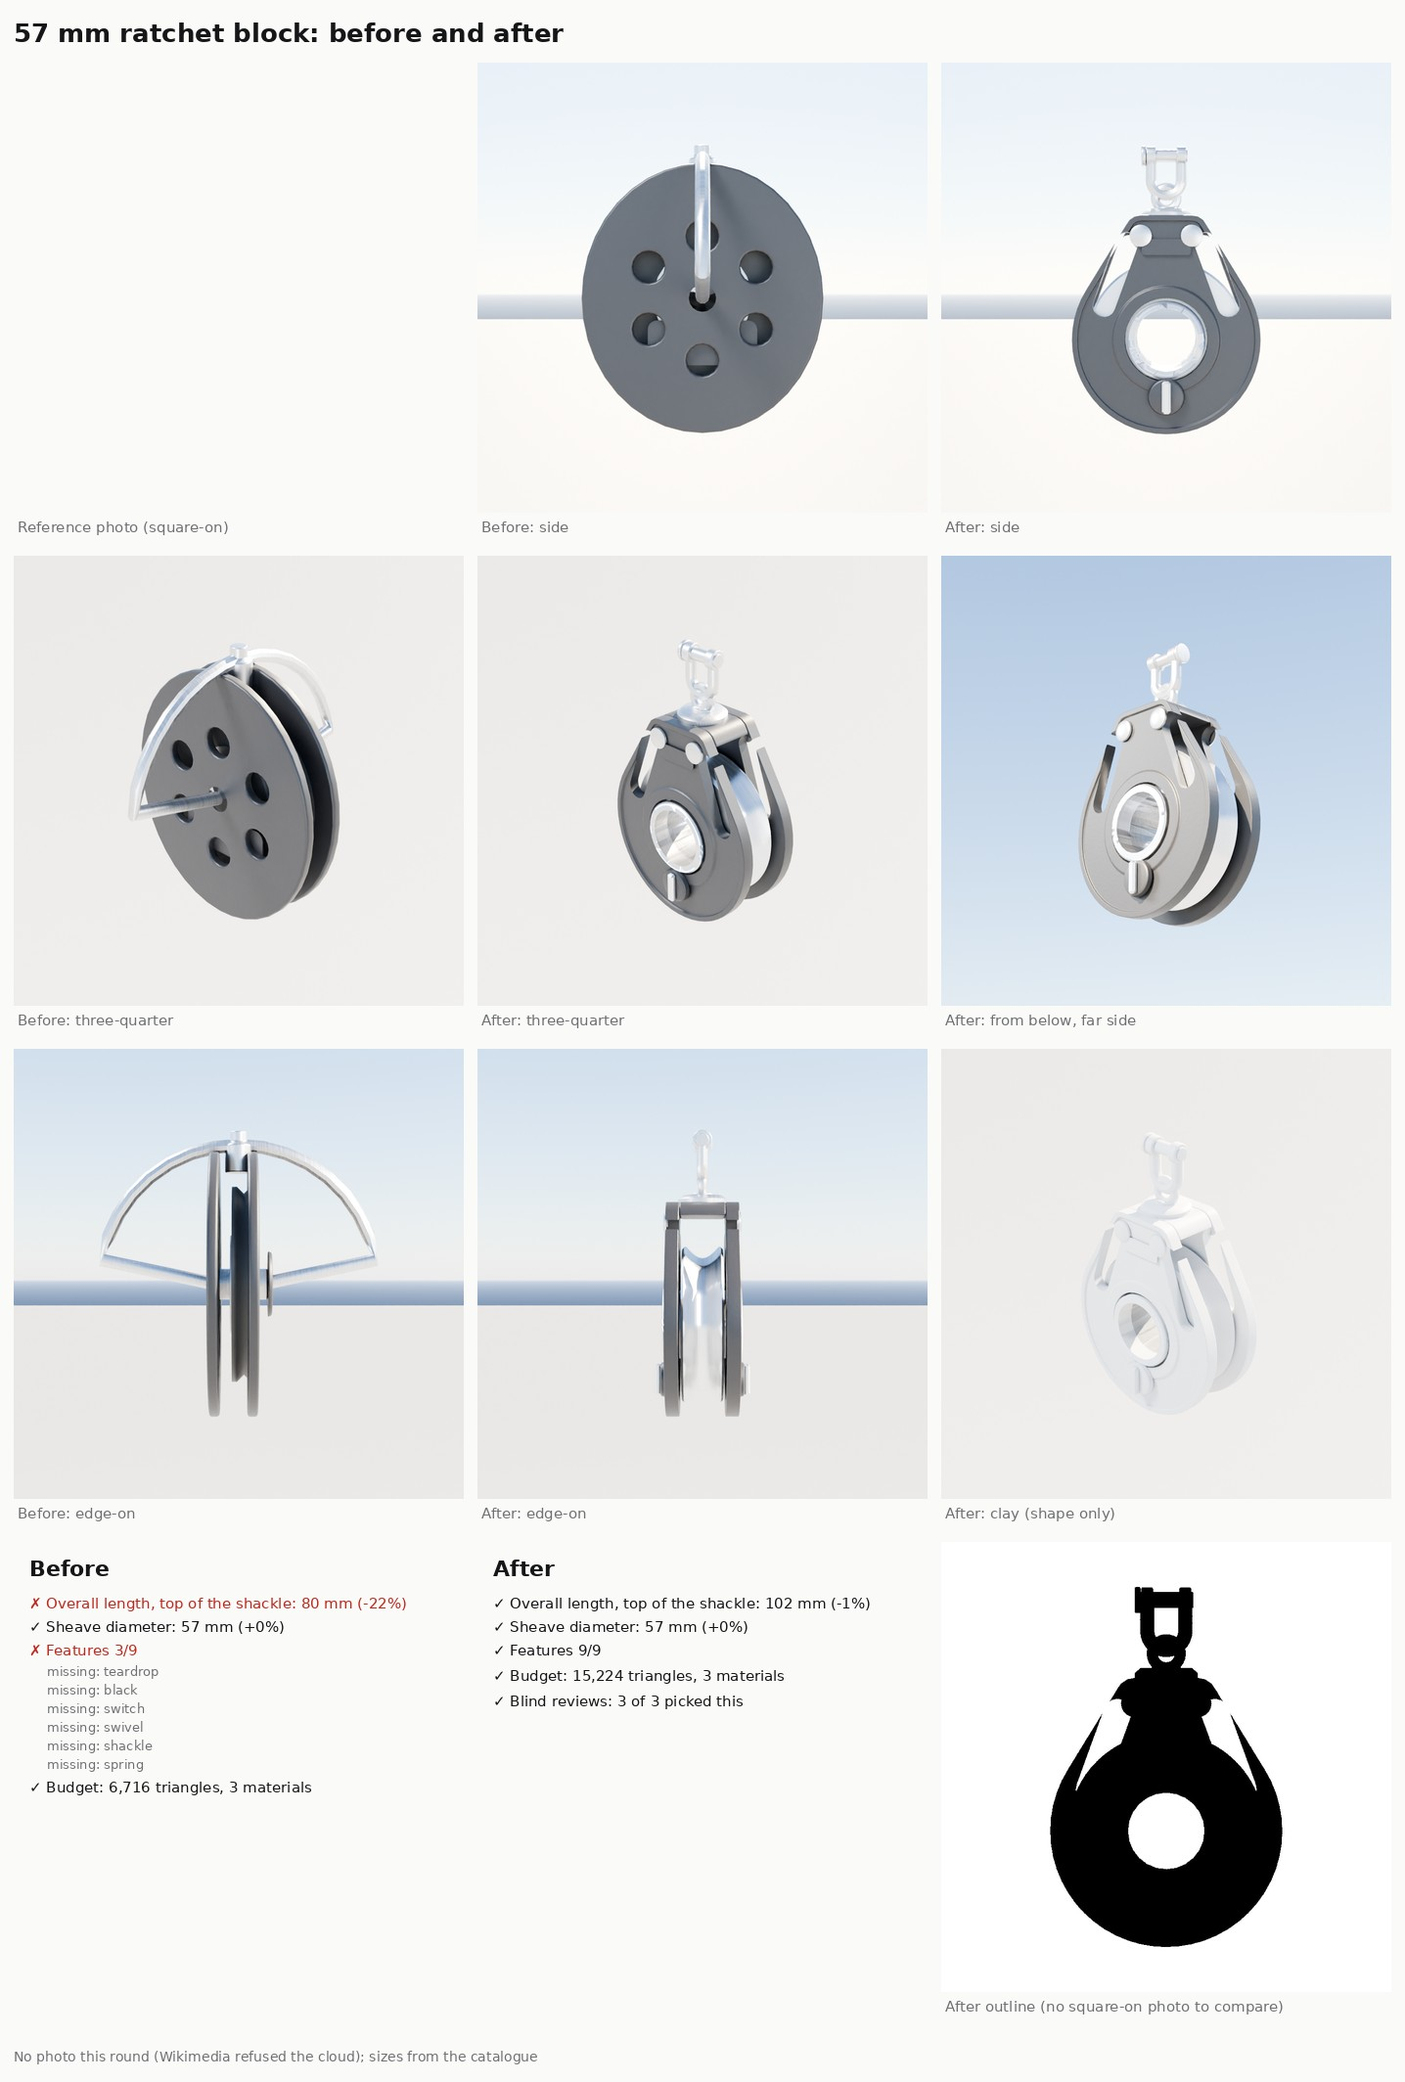
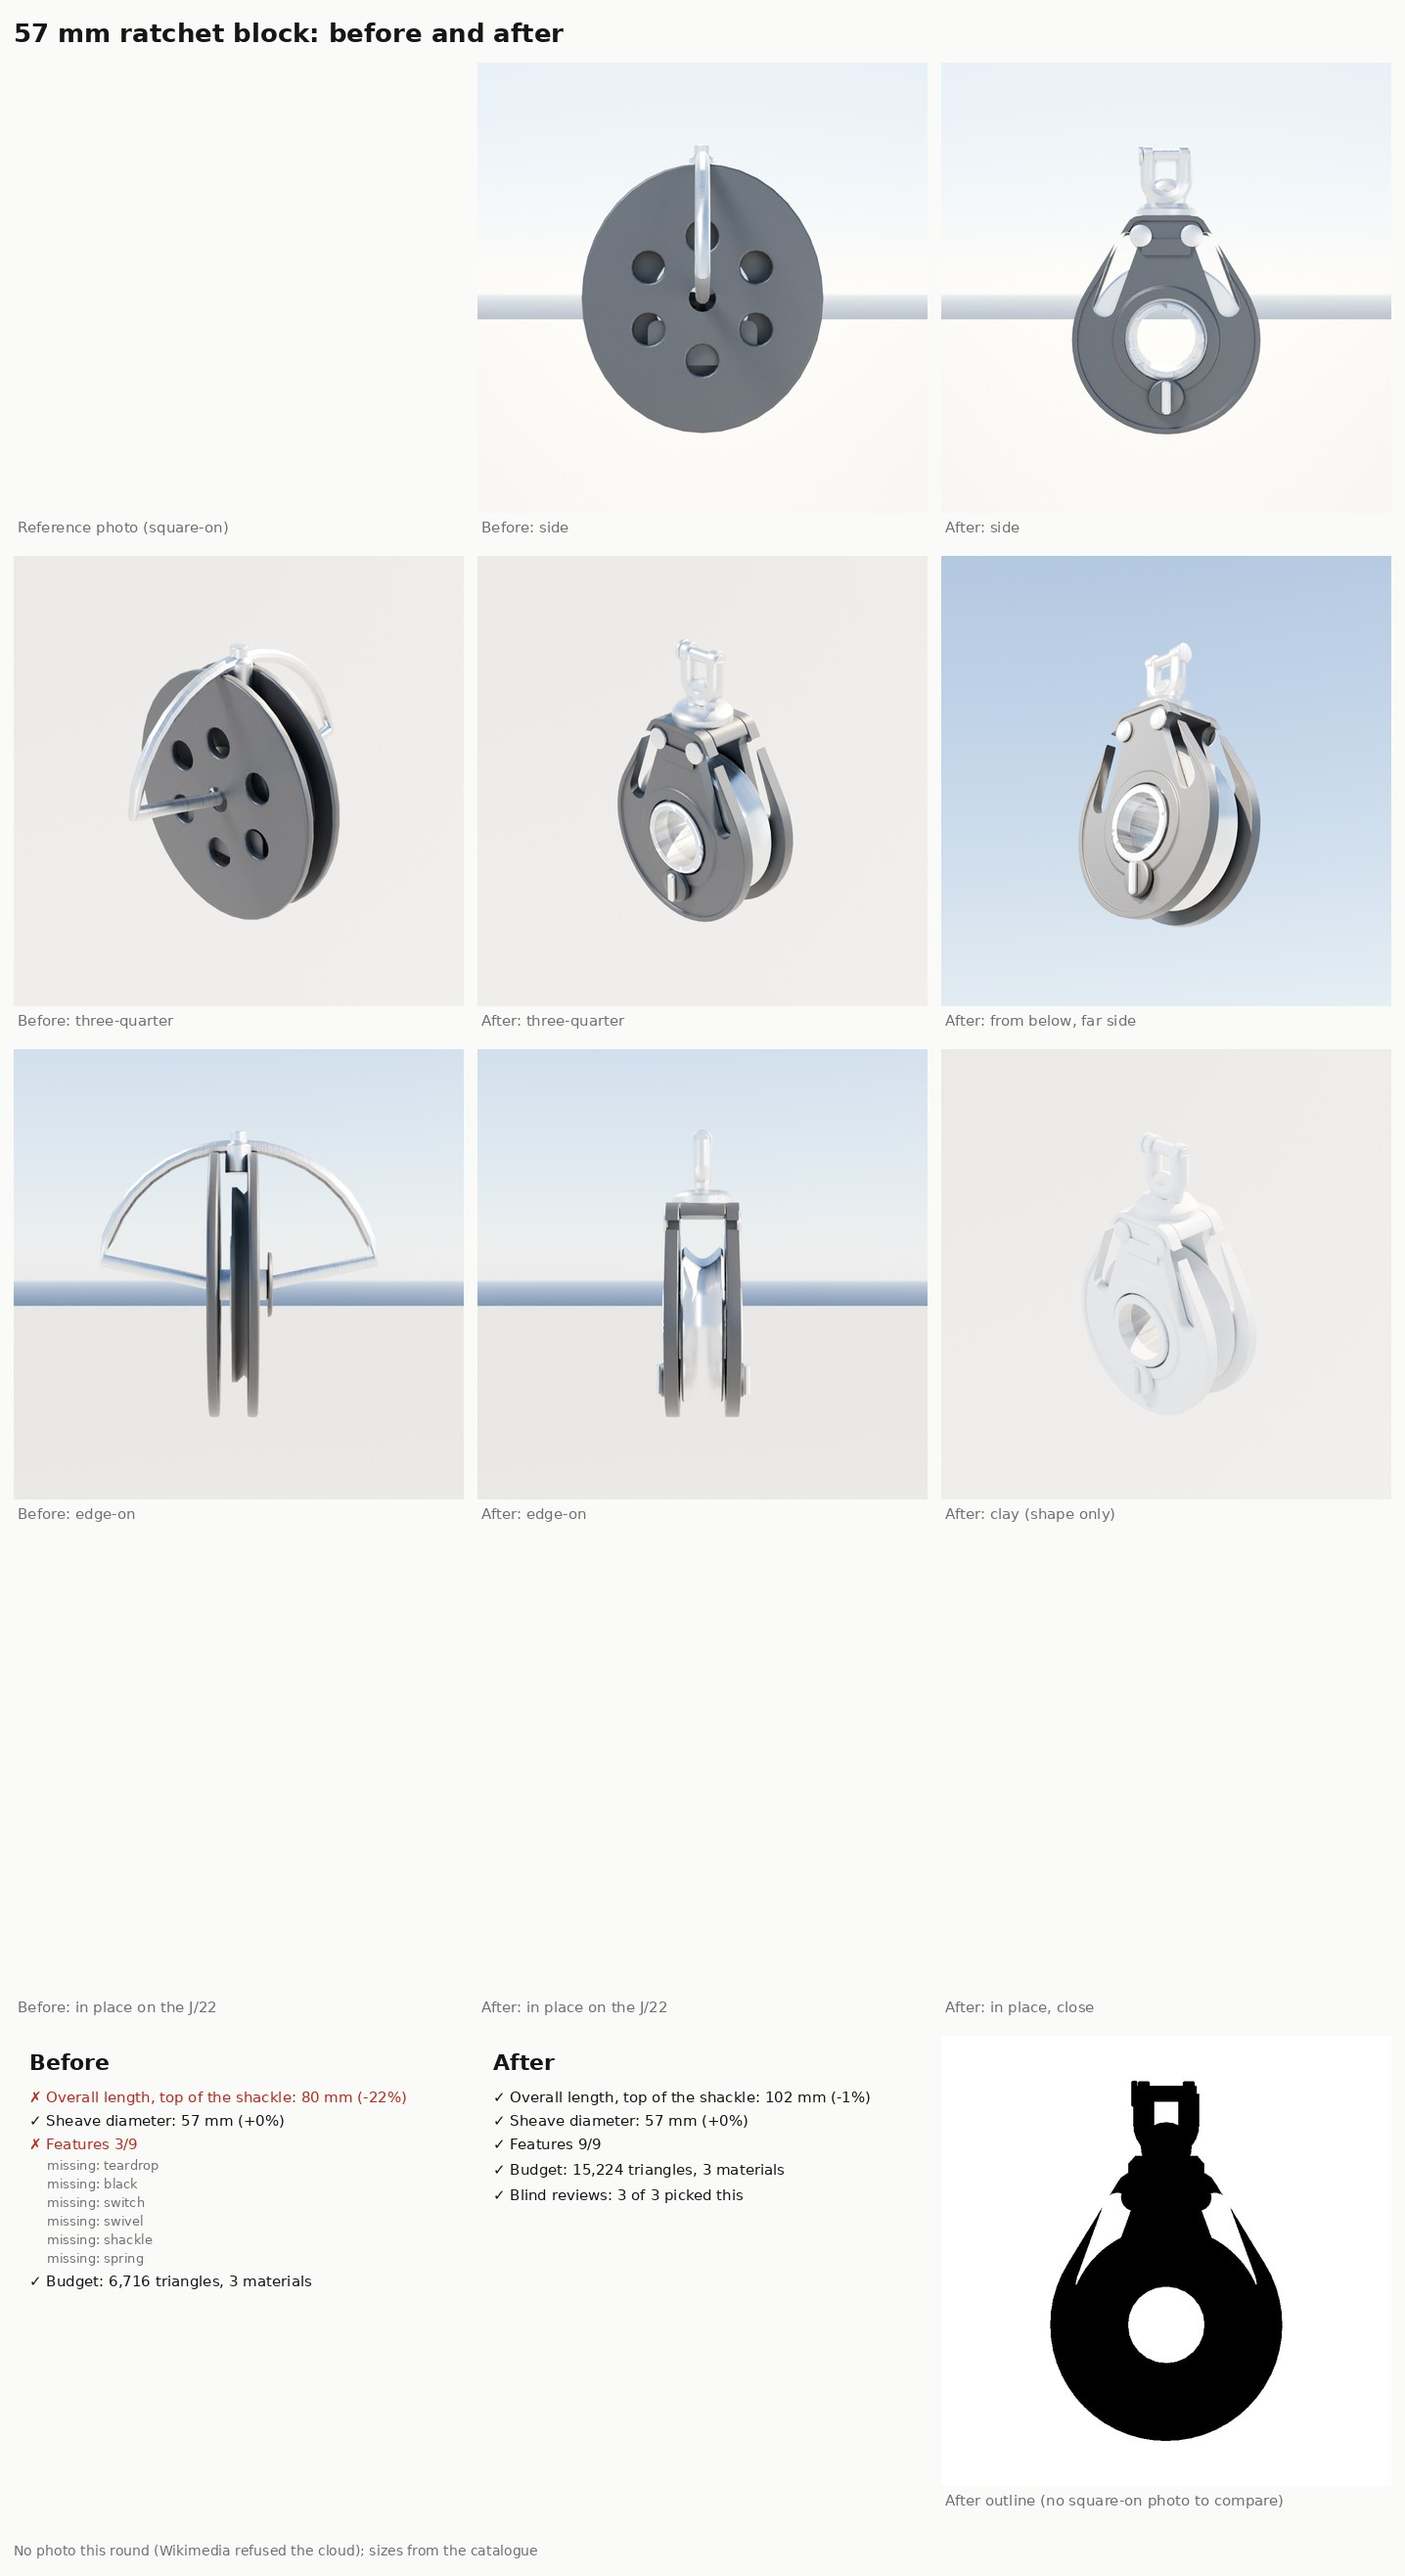
Ratchet57: thicker swivel neck (post, eye, collar, shackle bow)
Bean's review: the connection between the block's head and the shackle read thin
in profile. _mb_swivel_shackle takes neck (default 1, other blocks unchanged);
Ratchet57 uses 1.6.

Claude-Session: https://claude.ai/code/session_01Aobnj7CoA4LFkXbTX4RsnG

diff --git a/Tools/boatkit/bk_parts.py b/Tools/boatkit/bk_parts.py
@@ -472,19 +472,21 @@ def _mb_hub(sfx, rb, yi, yo, rsi, cz, k, steel):
     return out
 
 
-def _mb_swivel_shackle(zh, rb, k, steel):
-    """Swivel collar on the head at zh, post, eye (hole along Y) and a D-shackle with its pin along X at the origin."""
+def _mb_swivel_shackle(zh, rb, k, steel, neck=1.0):
+    """Swivel collar on the head at zh, post, eye (hole along Y) and a D-shackle with its pin along X at the origin.
+    `neck` thickens the post, the eye's wire and the collar (Ratchet57: Bean, Nov 9 2026, the neck read thin edge-on)."""
     objs = []
-    collar = G.lathe("collar", [(0, -0.0006 * k), (rb * 0.27, -0.0006 * k), (rb * 0.27, 0.0012 * k), (rb * 0.22, 0.0024 * k), (0, 0.0024 * k)], steel, 28)
+    cr = rb * 0.27 * (1 + (neck - 1) * 0.35)
+    collar = G.lathe("collar", [(0, -0.0006 * k), (cr, -0.0006 * k), (cr, 0.0012 * k * neck), (cr * 0.82, 0.0024 * k * neck), (0, 0.0024 * k * neck)], steel, 28)
     collar.location = (0, 0, zh)
     G.bake_xform(collar)
     objs.append(G.finish(collar, 0, sharp=50))
-    ez, er, emin = -0.013 * k, 0.0034 * k, 0.0014 * k
-    post = G.cyl("post", (0, 0, zh), (0, 0, ez - er + 0.0006 * k), 0.0040 * k, steel, 24, r1=0.0034 * k)
+    ez, er, emin = -0.013 * k, 0.0034 * k * (1 + (neck - 1) * 0.3), 0.0014 * k * neck
+    post = G.cyl("post", (0, 0, zh), (0, 0, ez - er + 0.0006 * k), 0.0040 * k * neck, steel, 24, r1=0.0034 * k * neck)
     objs.append(G.finish(post, 0.0003 * k))
     eye = G.tube("eye", G.arc_pts((0, 0, ez), er, 0, G.TAU, 24, "xz")[:-1], emin, steel, 10, closed=True)
     objs.append(G.finish(eye))
-    w, wr = 0.0046 * k, 0.0018 * k
+    w, wr = 0.0046 * k * (1 + (neck - 1) * 0.3), 0.0018 * k * (1 + (neck - 1) * 0.8)
     bow = G.tube("bow", [(-w, 0, 0), (-w, 0, -0.0075 * k)] + G.arc_pts((0, 0, -0.0075 * k), w, math.pi, G.TAU, 14, "xz")[1:-1] + [(w, 0, -0.0075 * k), (w, 0, 0)], wr, steel, 10)
     objs.append(G.finish(bow))
     for sx in (-1, 1):
@@ -515,7 +517,7 @@ def _mb_ratchet_sheave(name, R, ts, rsi, cz, k, mat, facets=12, segs=96):
 
 
 def _modern_block_parts(name, sheave_d, becket=False, plate=None, overall=None, head=1.66, hk=None, ratchet=False,
-                        holes=True):
+                        holes=True, neck=1.0):
     """Part detail loop round 1 (docs/part-detail-loop): a modern moulded-cheek swivel block, measured against a 40 mm
     catalogue block (86 mm from the shackle pin to the foot, 4 mm pin, 10 mm line) and reference photos.
 
@@ -613,7 +615,7 @@ def _modern_block_parts(name, sheave_d, becket=False, plate=None, overall=None, 
     # boss read as a hardware-store pulley)
     objs += _mb_hub("", rb, yi, yo, rsi, cz, k, steel)
     # swivel: collar on the head, post, eye (hole along Y); D-shackle: pin along X at the origin, bow through the eye
-    objs += _mb_swivel_shackle(zh, rb, hk, steel)
+    objs += _mb_swivel_shackle(zh, rb, hk, steel, neck)
     if becket:
         bz = cz - rb - 0.0022 * k
         bk = G.tube("becket", [(-0.0050 * k, 0, cz - R * 0.6)] + G.arc_pts((0, 0, bz), 0.0050 * k, math.pi, G.TAU, 14, "xz")[1:-1] + [(0.0050 * k, 0, cz - R * 0.6)],
@@ -885,7 +887,7 @@ def ratchet57(standup=False):
     """Sunfish deck gear (Nov 2026, docs/part-detail-loop/sunfish.md): the moulded-cheek swivel block at the catalogue's
     57 mm ratchet size (103 mm overall, 10 mm line), a faceted ratchet sheave, an on/off switch on each cheek and a 6 mm
     swivel shackle. `standup`: a stand-up spring round the shackle and swivel, so the block stands on its deck eye."""
-    objs, socks = _modern_block_parts("Ratchet57", 0.057, plate="Plate57", overall=0.103, head=1.32, hk=1.2, ratchet=True, holes=False)
+    objs, socks = _modern_block_parts("Ratchet57", 0.057, plate="Plate57", overall=0.103, head=1.32, hk=1.2, ratchet=True, holes=False, neck=1.6)
     if standup:
         zh = socks[1][1][2] + 0.0336 * 1.32          # the head's top (Axle + H)
         n, r, z0 = 9, 0.0095, -0.0015

diff --git a/docs/part-detail-loop/sunfish.md b/docs/part-detail-loop/sunfish.md
@@ -50,6 +50,12 @@ drum), an on/off switch on each cheek, a 6 mm swivel shackle and, for the Sunfis
 |---|---|---|---|---|---|
 | Before | 80.5 mm (-22%) | 57 mm | 3/9 | 6,716, 3 slots | lost 3 of 3; all three: wrong part ("film reel", "perforated disc") |
 | r1 | 102.2 mm (-1%) | 57 mm | 9/9 | 15,224 (16,960 with the spring), 3 slots | won 3 of 3 (confidence 5, 5, 5) |
+| r2 | 102.2 mm (-1%) | 57 mm | 9/9 | 15,224, 3 slots | Bean's note on r1 |
+
+r2 (Bean, Nov 9: "a very thin connection part in the profile"): edge-on, the swivel between the head and the shackle
+read as a thin stalk. `_mb_swivel_shackle` takes `neck` (default 1, so Block40 and the fiddles are unchanged); Ratchet57
+uses 1.6: the post 1.6 times thicker, the eye's wire 1.6, the collar a fifth wider, the shackle's bow wire half as thick
+again and its legs a little wider apart.
 
 Outline: not checked. The square-on reference (the Harken 57C photo on Wikimedia Commons, used for Block40) could not be
 fetched: Wikimedia answered the cloud with HTTP 429 all session. The blind reviewers judged from the catalogue's
